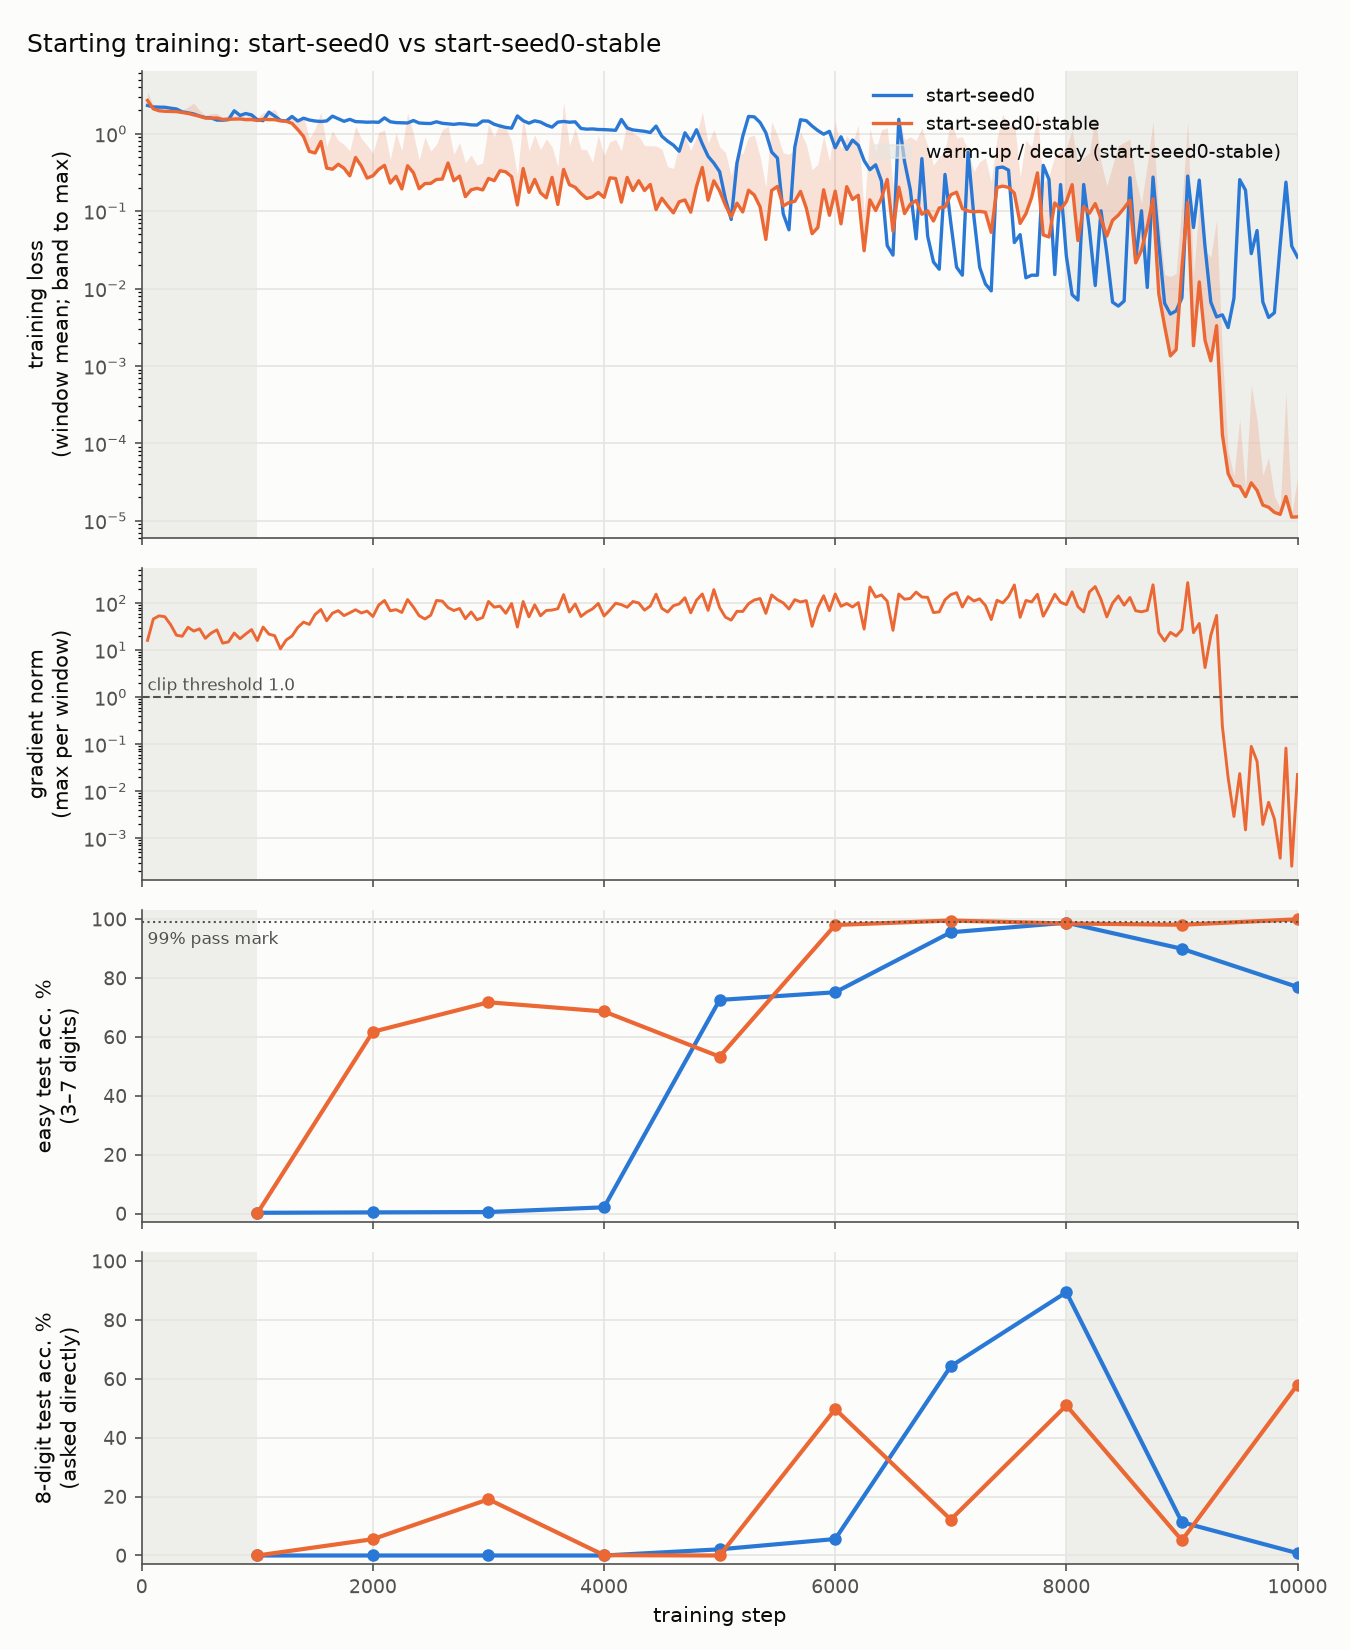
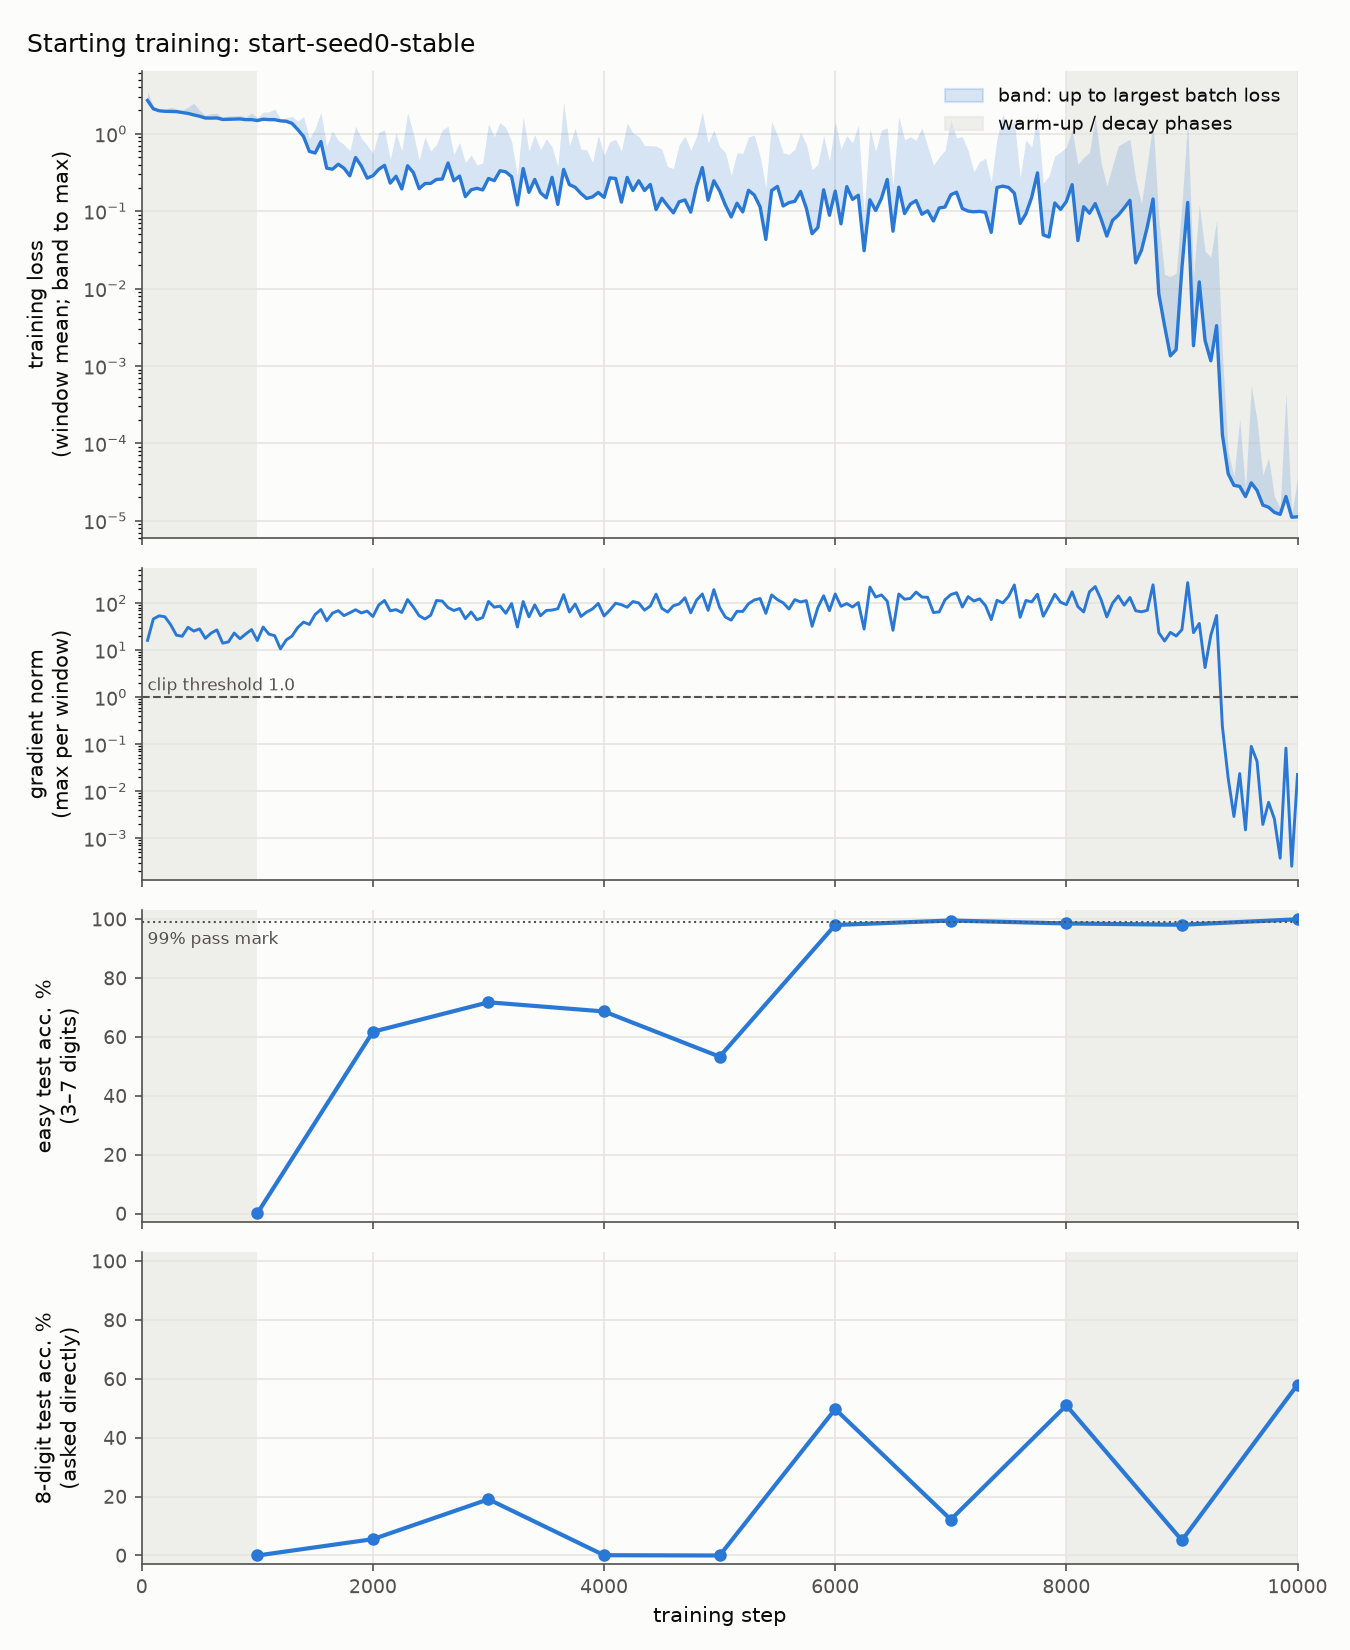
Seed-0 plot: show only the stable run

diff --git a/src/gainpred/plots.py b/src/gainpred/plots.py
@@ -110,10 +110,14 @@ def plot(runs: list[Run], out: Path) -> None:
     hard_ax.set_xlabel("training step", color=INK, fontsize=10)
     hard_ax.set_xlim(0, max(r.config["train"]["steps"] for r in runs))
 
-    handles, labels = loss_ax.get_legend_handles_labels()
+    # One run: the title names it, so the legend only explains the band and shading.
+    handles, labels = loss_ax.get_legend_handles_labels() if len(runs) > 1 else ([], [])
+    if any("loss_max" in r.train[0] for r in runs):
+        handles.append(plt.Rectangle((0, 0), 1, 1, color=SERIES[0], alpha=0.18))
+        labels.append("band: up to largest batch loss")
     if scheduled:
         handles.append(plt.Rectangle((0, 0), 1, 1, color=GRID, alpha=0.6))
-        labels.append(f"warm-up / decay ({scheduled[0].name})")
+        labels.append("warm-up / decay phases" if len(runs) == 1 else f"warm-up / decay ({scheduled[0].name})")
     loss_ax.legend(handles, labels, frameon=False, fontsize=9, loc="upper right", labelcolor=INK)
     title = "Starting training: " + " vs ".join(r.name for r in runs)
     fig.suptitle(title, color=INK, fontsize=12, x=0.02, ha="left")

diff --git a/results/README.md b/results/README.md
@@ -45,7 +45,7 @@ All are P1 starting training on easy addition (3–7 digits), seed 0, batch 256.
 
 ## What we take from them
 
-![Seed 0 training curves](plots/seed0.png)
+![Seed 0 training curves (start-seed0-stable)](plots/seed0.png)
 
 - **Stability.** With a constant learning rate the model learns, then repeatedly forgets long problems. Warm-up, clipping and a final decay fix the *end point*, but spikes still occur in the stable phase (gradient norm up to ~240 before clipping, easy accuracy swinging between 53% and 99.6%); the decay phase settles them. Seed 1 has not been run yet, so we do not know whether 100% is reliable.
 - **8 digits are not "close to 0%".** Both runs answer many 8-digit problems directly at some checkpoints (up to ~90%), with no carry/no-carry difference, so the model is not using cut-1 structure. The share swings widely between checkpoints (stable run: 0–60%), and the final value depends on where training stops (start-seed0 ended at 0.9%, the stable run at 58%). Nine digits stay at ~0% throughout. How to treat this against P9 is an open protocol decision.
